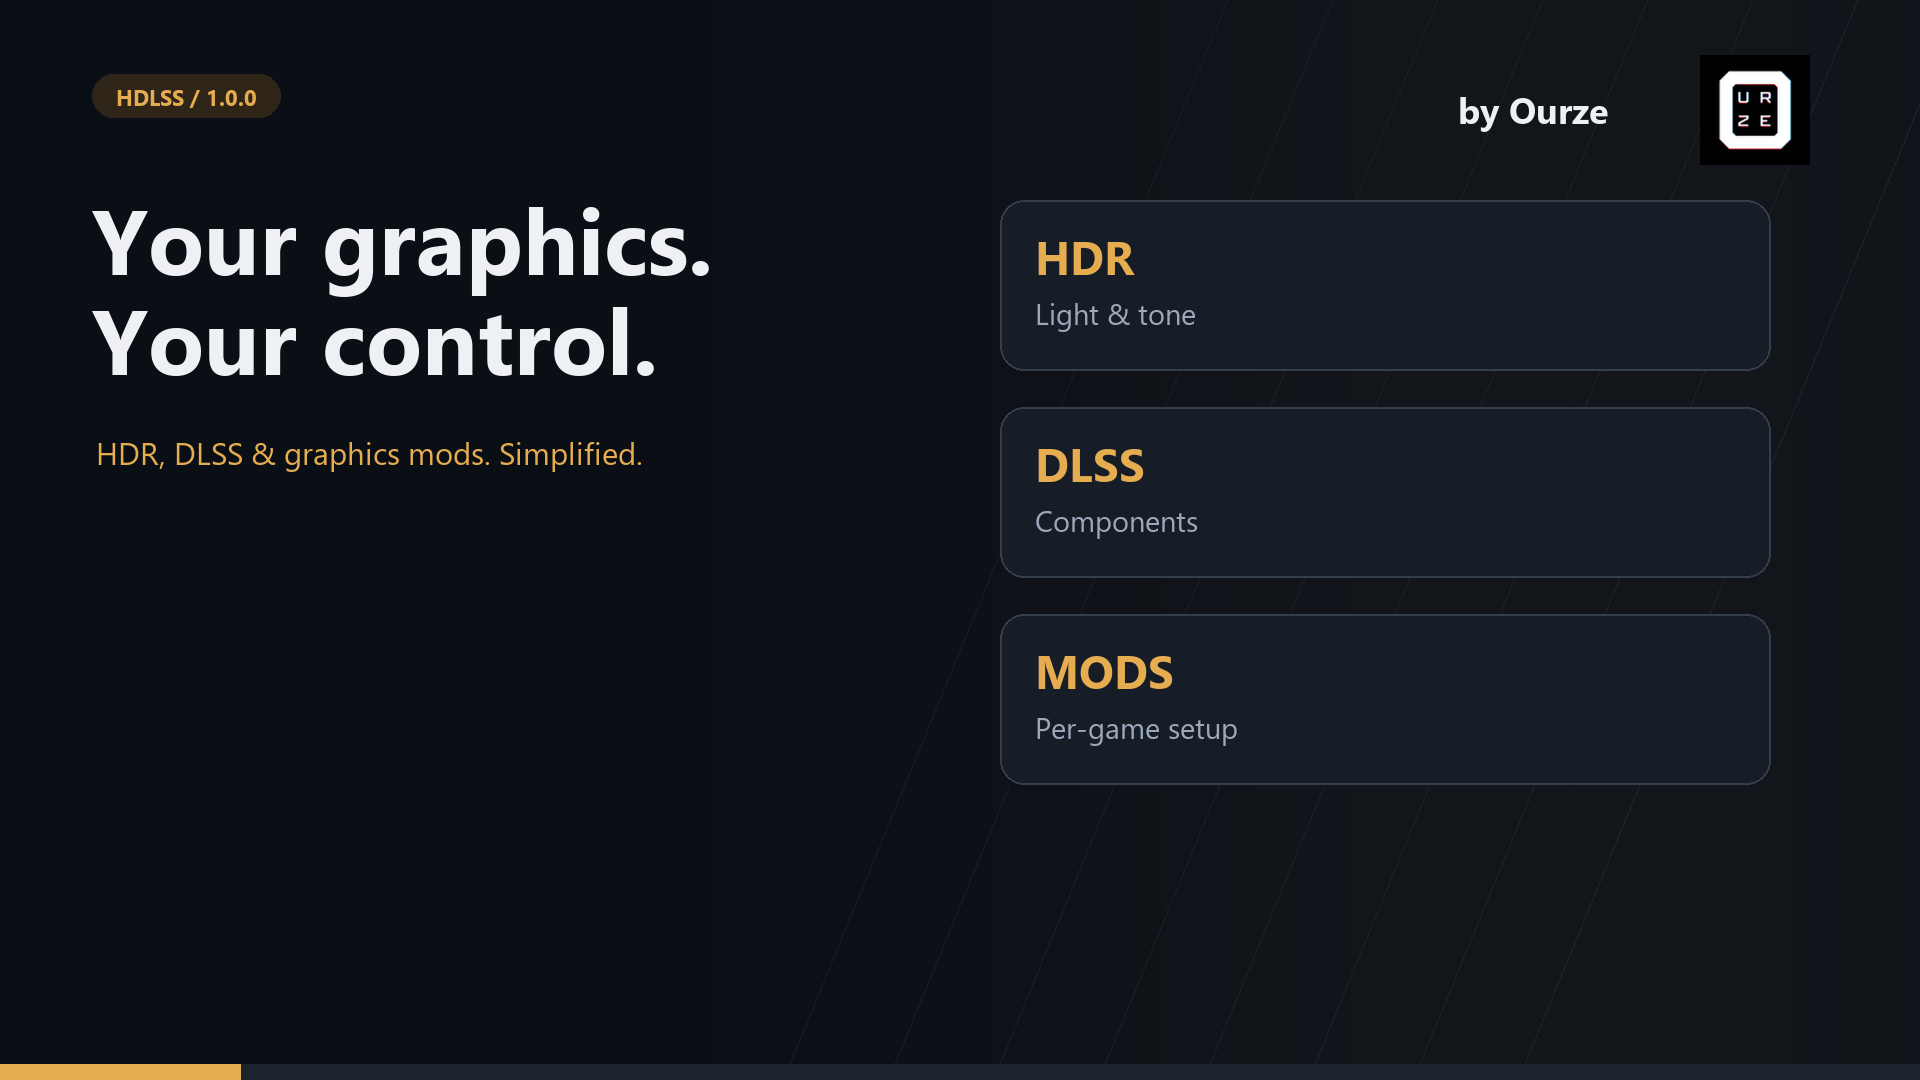
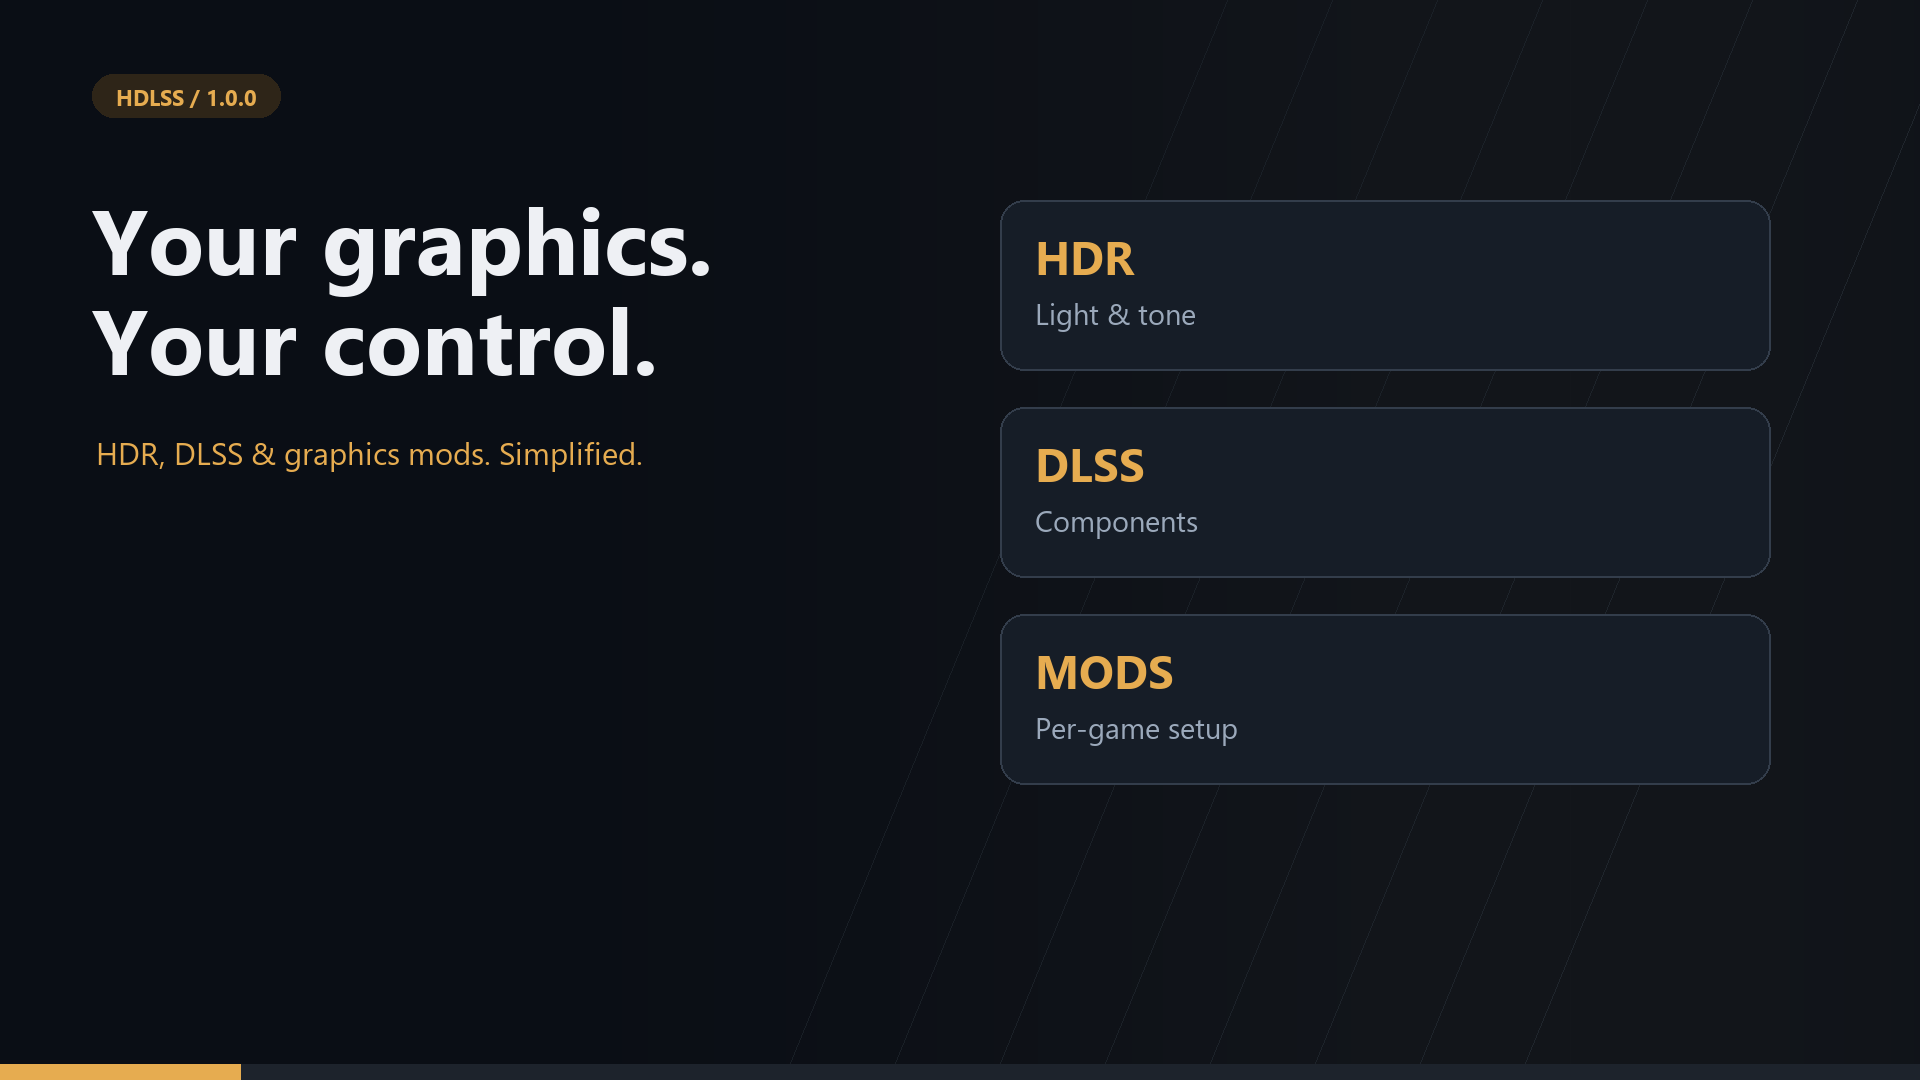
Present DLSS 5 and Neural Rendering purpose, add app screenshots and remove channel branding

Changed region(s): [[0.875, 0.0306, 0.9688, 0.1528], [0.75, 0.0917, 0.8438, 0.1222]]

diff --git a/README.md b/README.md
@@ -2,17 +2,24 @@
 
 **HDR, DLSS & graphics mods. Simplified.**
 
-Created by **[Ourze on YouTube](https://www.youtube.com/channel/UC6GhuzwBEJESlCX4VRlbTHw)**.
-
-<img src="assets/ourze-channel.jpg" alt="Ourze channel logo" width="100">
-
 [Download HDLSS 1.0.0](https://github.com/giorgiobascialla-hub/Ourze/releases/tag/v1.0.0) · [Release assets and presentation](https://github.com/giorgiobascialla-hub/Ourze/releases/tag/v1.0.0)
 
-A portable Windows desktop app for managing supported graphics components per game, with component checks, backups and recovery in one place.
+HDLSS was created to help configure DLSS 5 and Neural Rendering in compatible games. It brings supported community OptiScaler builds, component checks, backups and recovery into a portable Windows app, with additional HDR tools. It is an independent project; the integrated community injector builds are not official NVIDIA releases.
 
 <img src="assets/brand-logo.png" alt="HDLSS" width="420">
 
 [![Watch the presentation](assets/presentation.png)](https://github.com/giorgiobascialla-hub/Ourze/releases/download/v1.0.0/HDLSS-Presentation.mp4)
+
+## App screenshots
+
+### Game library
+![HDLSS game library](assets/library.jpg)
+
+### HDR settings
+![HDLSS HDR settings](assets/hdr.jpg)
+
+### DLSS components
+![HDLSS DLSS components](assets/dlss.jpg)
 
 ## What you can do
 
@@ -62,3 +69,4 @@ Include the app version, Windows version, GPU/driver, game and selected componen
 HDLSS is independent and is not affiliated with NVIDIA, Valve, Microsoft, Epic Games, ReShade, RenoDX or the OptiScaler authors. Component downloads retain their authors' terms. See [component sources](docs/SOURCES.txt). Third-party injectors, models and game files are not bundled.
 
 No open-source license has been selected for HDLSS in this package. Public source availability alone does not grant a reuse license. Third-party trademarks and game artwork belong to their respective owners.
+
